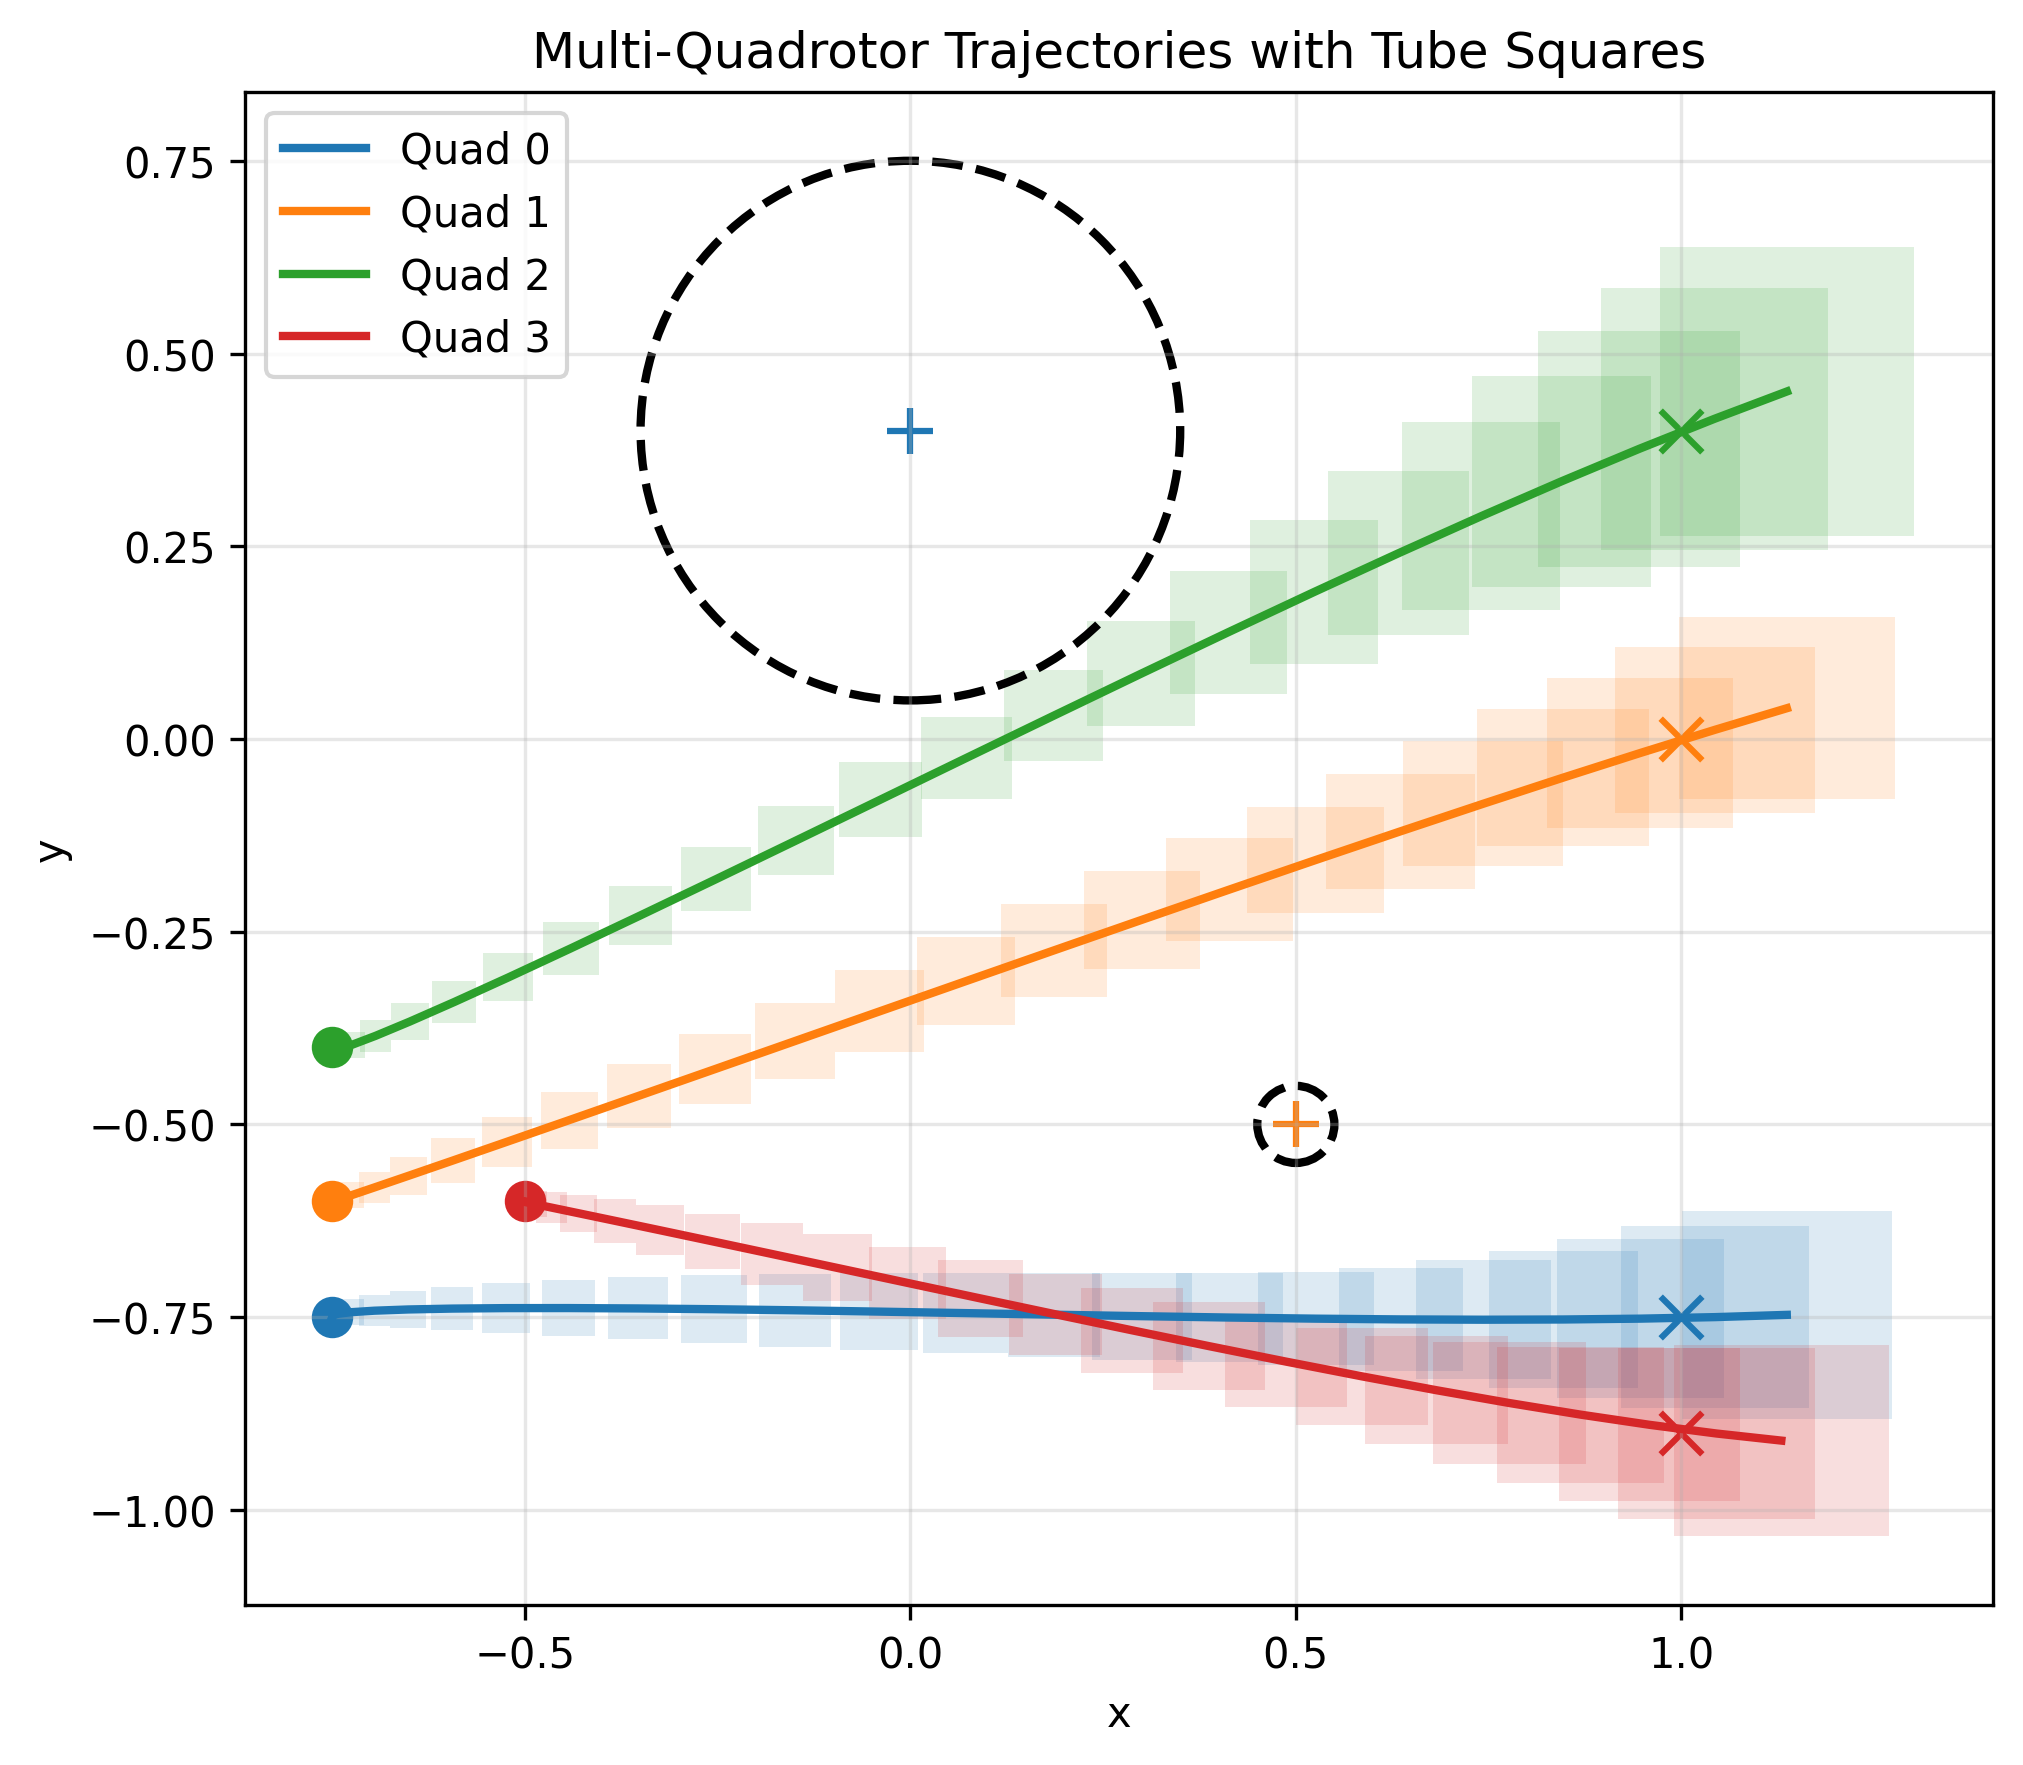
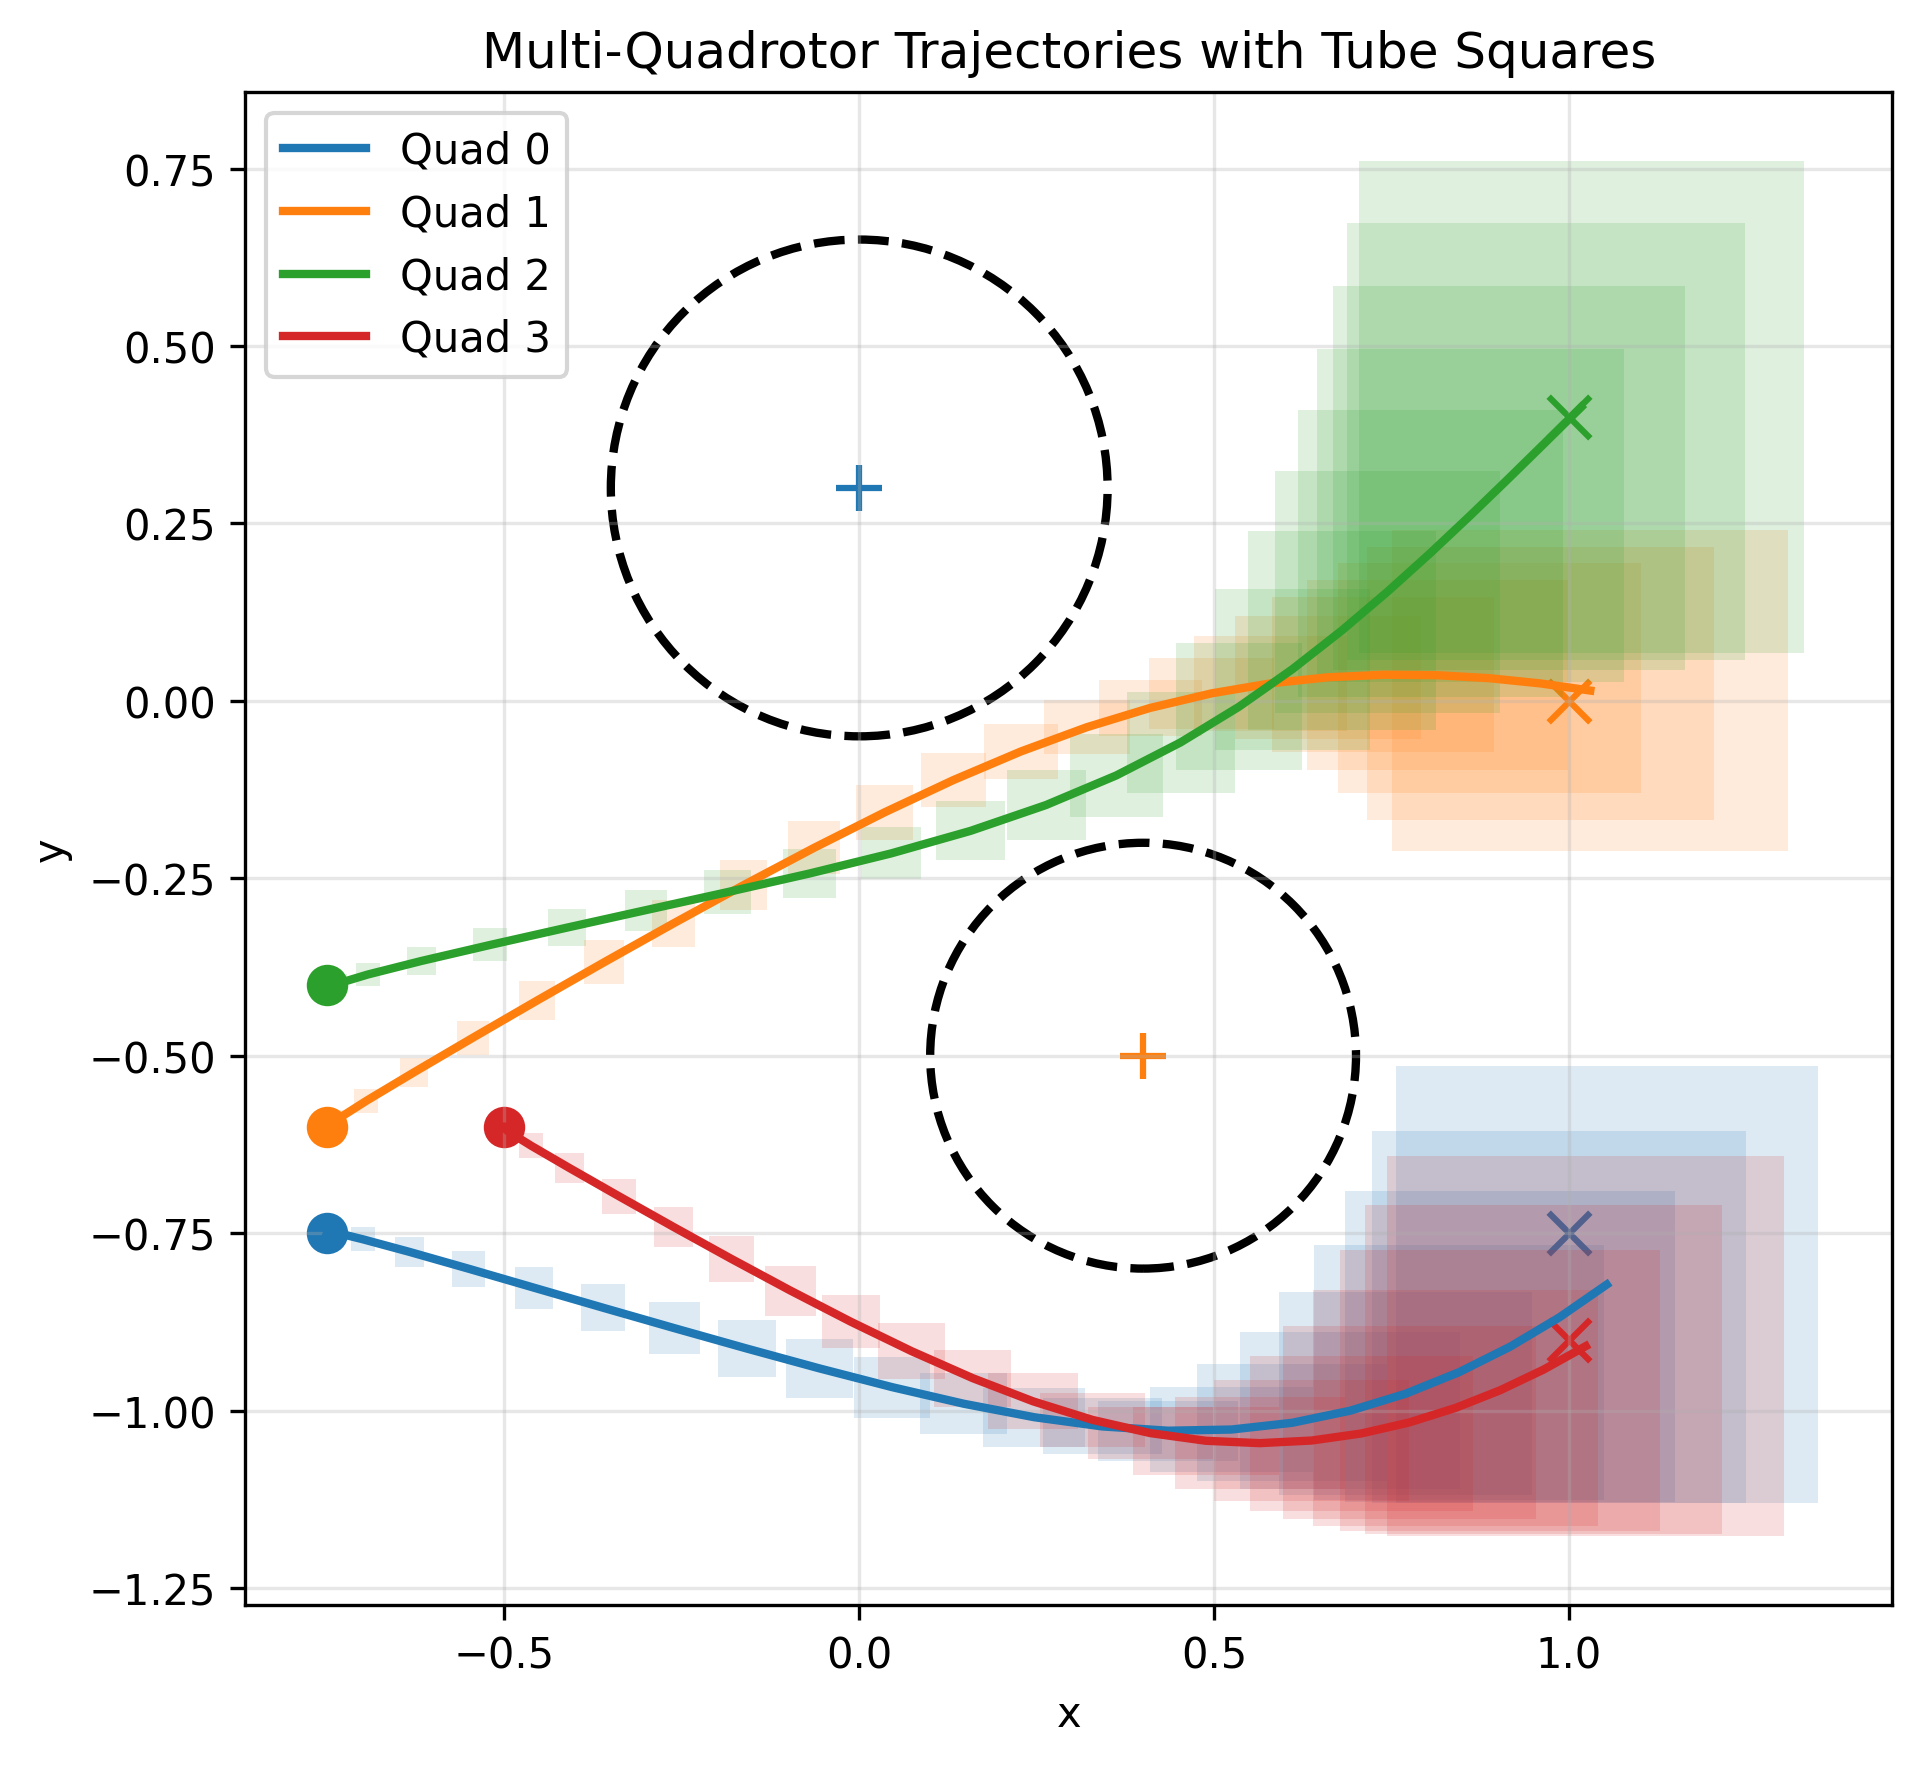
add multiquadrotor experiment

diff --git a/examples/multi_quadrotor/multi_quadrotor.py b/examples/multi_quadrotor/multi_quadrotor.py
@@ -399,7 +399,7 @@ def main():
     # State limits
     # -----------------------------
     x_max_single = jnp.array([
-        15.0, 15.0, 15.0,
+        5.0, 5.0, 5.0,
         jnp.pi / 2.0,
         jnp.pi / 2.0,
         10.0 * jnp.pi,
@@ -417,8 +417,8 @@ def main():
     # One circular obstacle per quad in XY projection, repeated in constraints interface.
     # -----------------------------
     obstacles = jnp.array([
-        [0.0, 0.4, 0.35],
-        [0.5, -0.5, 0.05],
+        [0.0, 0.3, 0.35],
+        [0.4, -0.5, 0.3],
     ], dtype=jnp.float64)
 
 
@@ -468,18 +468,18 @@ def main():
     # -----------------------------
     admm_cfg = ADMMConfig(
         eps_abs=1e-1,
-        eps_rel=1e-2,
-        rho_max=1e4,
+        eps_rel=1e-4,
+        rho_max=5e1,
         max_iterations=400,
-        rho_update_frequency=20,
-        initial_rho=30.0,
+        rho_update_frequency=2,
+        initial_rho=1.0,
     )
 
     sls_cfg = SLSConfig(
         max_sls_iterations=3,
         sls_primal_tol=1e-2,
         enable_fastsls=True,
-        initialize_nominal=False,
+        initialize_nominal=True,
         max_initial_sqp_iterations=30,
         warm_start=False,
         rti=False,